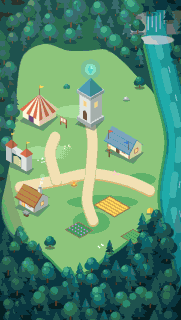
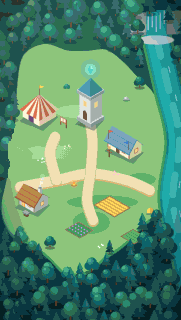
영지 UI 정리 · 자글거림 수정
- 재화 2종 오른쪽 위(이름 패널과 같은 높이), 건물 이름표 → 굵은 테두리 메뉴 버튼(흔들림 제거)
- 성문 삭제 (가로 라벨, 세로·가로 그림에서 지움)
- 출전 덱을 출전 버튼과 한 판에: 큰 카드 한 줄, 좌우로 밀어서 보기, 누르면 병영
- 렌더 해상도 RES 를 화면 실제 픽셀에 맞춘 정수 배율(2~3)로, 캔버스 확대·축소는 부드럽게 (nearest 로 줄여 자글거리던 문제)
- 느린 CI 에서 흔들린 이펙트 테스트 대기 5초 → 10초

Claude-Session: https://claude.ai/code/session_01SZsqwLwV16mDzSvJa73xyD

Changed region(s): [[0.0276, 0.4062, 0.1934, 0.5625]]

diff --git a/src/scenes/LobbyScene.js b/src/scenes/LobbyScene.js
@@ -10,7 +10,7 @@ import { ROSTER_BY_ID, GRADES, DECK_RULES } from '../data/roster.js';
 import { charImage } from '../objects/Mercenary.js';
 
 // 로비 = 용병단 영지 (2026-11-17, 시안 A '영지 지도형'). 건물이 곧 메뉴:
-//   성탑(스킬 노드) · 병영(덱 편성) · 술집(마정석 고용, 룰 v2) · 유물 공방(마정석 유물 생산·장착, 룰 v2) · 성문/출전(전투 시작)
+//   성탑(스킬 노드) · 병영(덱 편성) · 술집(마정석 고용, 룰 v2) · 유물 공방(마정석 유물 생산·장착, 룰 v2). 출전은 아래 덱 줄의 버튼 (성문 삭제 2026-11-21)
 // 배경은 동화풍 일러스트를 캐릭터와 같은 3px 도트로 정리한 그림 (public/assets/lobby/lobby_<wide|tall>.png, 아트 1px = 화면 3px)
 
 /** 건물 이름표 위치 (게임 좌표) · 누를 수 있는 건물 영역 */
@@ -19,23 +19,20 @@ const SPOTS = WIDE
       tower: { tag: [622, 92], hit: [570, 110, 110, 190] },
       tent: { tag: [350, 150], hit: [270, 170, 160, 130] },
       barracks: { tag: [876, 196], hit: [780, 210, 180, 130] },
-      forge: { tag: [342, 424], hit: [260, 430, 160, 120] },
-      gate: { tag: [176, 268], hit: [90, 280, 150, 150] }
+      forge: { tag: [342, 424], hit: [260, 430, 160, 120] }
     }
   : {
       tower: { tag: [392, 236], hit: [222, 230, 110, 160] },
       tent: { tag: [118, 232], hit: [56, 250, 130, 110] },
       barracks: { tag: [392, 350], hit: [300, 370, 150, 110] },
-      forge: { tag: [108, 536], hit: [40, 540, 120, 110] },
-      gate: null
+      forge: { tag: [108, 536], hit: [40, 540, 120, 110] }
     };
 
 const LABELS = {
   tower: ['성탑', '스킬 노드', 'tower'],
   tent: ['술집', '용병 고용', 'userplus'],
   barracks: ['병영', '덱 편성', 'sword'],
-  forge: ['유물 공방', '유물 생산·장착', 'gem'],
-  gate: ['성문', '출전', 'sword']
+  forge: ['유물 공방', '유물 생산·장착', 'gem']
 };
 
 export class LobbyScene extends Phaser.Scene {
@@ -65,11 +62,12 @@ export class LobbyScene extends Phaser.Scene {
     this.scene.start(scene, data);
   }
 
-  /** 위: 용병단 이름·최고 기록 + 재화 3종 */
+  /** 위: 왼쪽 용병단 이름·최고 기록 / 오른쪽 재화 2종 (2026-11-21: 같은 높이로 오른쪽 위에) */
   createTop() {
     const best = meta.data.best?.normal || 0;
+    const H = 52;
     const nameW = WIDE ? 230 : 200;
-    panel(this, 16, 14, nameW, 52, 'strip');
+    panel(this, 16, 14, nameW, H, 'strip');
     const crest = this.add.graphics();
     crest.fillStyle(0xf2c14e, 1).fillCircle(44, 40, 18).lineStyle(2, 0xa8801c, 1).strokeCircle(44, 40, 18);
     drawIcon(crest, 'crown', 44, 40, 14, 0x6b4505);
@@ -81,63 +79,66 @@ export class LobbyScene extends Phaser.Scene {
       ['명성', meta.fame, 0xf2c14e, 'crown'],
       ['마정석', meta.stones, 0x2fbfb2, 'gem']
     ];
-    const w = WIDE ? 170 : 252;
+    const w = WIDE ? 170 : 148;
+    const gap = 8;
     cur.forEach(([label, n, col, icon], i) => {
-      const x = WIDE ? GAME_W - 16 - (cur.length - i) * (w + 8) + 8 : 16 + i * (w + 8);
-      const y = WIDE ? 14 : 74;
-      panel(this, x, y, w, 40, 'strip');
+      const x = GAME_W - 16 - (cur.length - i) * w - (cur.length - 1 - i) * gap;
+      const y = 14;
+      panel(this, x, y, w, H, 'strip');
       const g = this.add.graphics();
-      g.fillStyle(col, 1).fillCircle(x + 22, y + 20, 13);
-      drawIcon(g, icon, x + 22, y + 20, 10, 0xffffff);
-      uiText(this, x + 42, y + 20, n.toLocaleString(), 16.5, CSS.ink, 'bold').setOrigin(0, 0.5);
-      uiText(this, x + w - 14, y + 20, label, 11, CSS.sub, '600').setOrigin(1, 0.5);
+      g.fillStyle(col, 1).fillCircle(x + 26, y + H / 2, 16);
+      drawIcon(g, icon, x + 26, y + H / 2, 12, 0xffffff);
+      uiText(this, x + 50, y + 8, n.toLocaleString(), 16.5, CSS.ink, 'bold');
+      uiText(this, x + 50, y + 31, label, 11, CSS.sub, '600');
     });
   }
 
-  /** 건물 이름표 + 누르는 영역 */
+  /** 건물 메뉴 버튼 (2026-11-21: 이름표 → 진한 테두리 메뉴 버튼, 흔들림 없음 — 소수점 위치로 움직이면 글자가 자글거린다) + 건물 영역 */
   createSpot(id) {
     const S = SPOTS[id];
     const [name, sub, icon] = LABELS[id];
     const [tx, ty] = S.tag;
     const action = () => this.openSpot(id);
-    // 건물 영역 (보이지 않음)
     const [hx, hy, hw, hh] = S.hit;
     this.add.zone(hx, hy, hw, hh).setOrigin(0).setInteractive({ useHandCursor: true }).on('pointerup', action);
-    // 이름표 (알약)
-    const t1 = uiText(this, 0, 0, name, 15, CSS.ink, 'bold');
+    const t1 = uiText(this, 0, 0, name, 16.5, CSS.ink, 'bold');
     const t2 = uiText(this, 0, 0, sub, 11, CSS.sub, '600');
-    const w = Math.ceil(Math.max(t1.width, t2.width) + 62);
-    const h = 44;
-    const x = Math.round(tx - w / 2);
-    const y = Math.round(ty - h / 2);
-    const c = this.add.container(0, 0);
-    c.add(panel(this, x, y, w, h, 'strip'));
+    const w = Math.ceil(Math.max(t1.width, t2.width) + 74);
+    const h = 52;
+    const c = this.add.container(Math.round(tx), Math.round(ty)); // 가운데 기준 (눌림 효과가 가운데로 줄어들게)
+    c.add(panel(this, -w / 2, -h / 2, w, h, 'menu'));
     const g = this.add.graphics();
-    g.fillStyle(0x1f6f66, 1).fillCircle(x + 22, y + h / 2, 15);
-    drawIcon(g, icon, x + 22, y + h / 2, 12, 0xfff3c4);
+    const ix = -w / 2 + 26;
+    g.fillStyle(0x6b4e2a, 1).fillCircle(ix, 0, 18);
+    g.fillStyle(0x1f6f66, 1).fillCircle(ix, 0, 15);
+    drawIcon(g, icon, ix, 0, 12, 0xfff3c4);
     c.add(g);
-    t1.setPosition(x + 44, y + 5);
-    t2.setPosition(x + 44, y + 24);
+    t1.setPosition(ix + 24, -h / 2 + 7);
+    t2.setPosition(ix + 24, -h / 2 + 30);
     c.add([t1, t2]);
     // 살 수 있는 노드 수 (성탑)
     if (id === 'tower') {
       const n = UPGRADES.filter((u) => meta.status(u.id) === 'ok').length;
       if (n) {
         const b = this.add.graphics();
-        b.fillStyle(0xd9603f, 1).fillCircle(x + w - 4, y + 4, 11).lineStyle(2, 0xfff3dc, 1).strokeCircle(x + w - 4, y + 4, 11);
-        c.add([b, uiText(this, x + w - 4, y + 4, String(n), 11, '#ffffff', 'bold').setOrigin(0.5)]);
+        b.fillStyle(0xd9603f, 1).fillCircle(w / 2 - 4, -h / 2 + 4, 11).lineStyle(2, 0xfff3dc, 1).strokeCircle(w / 2 - 4, -h / 2 + 4, 11);
+        c.add([b, uiText(this, w / 2 - 4, -h / 2 + 4, String(n), 11, '#ffffff', 'bold').setOrigin(0.5)]);
       }
     }
-    const hit = this.add.zone(x, y, w, h).setOrigin(0).setInteractive({ useHandCursor: true });
-    hit.on('pointerup', action);
+    const hit = this.add.zone(-w / 2, -h / 2, w, h).setOrigin(0).setInteractive({ useHandCursor: true });
+    hit.on('pointerdown', () => c.setScale(0.96));
+    hit.on('pointerout', () => c.setScale(1));
+    hit.on('pointerup', () => {
+      c.setScale(1);
+      action();
+    });
     c.add(hit);
-    this.tweens.add({ targets: c, y: -3, duration: 1200 + (tx % 5) * 80, yoyo: true, repeat: -1, ease: 'Sine.easeInOut' });
+    this.spots = { ...this.spots, [id]: c };
   }
 
   openSpot(id) {
     if (id === 'tower') return this.go('Upgrade', { from: 'lobby' });
     if (id === 'barracks') return this.go('Deck');
-    if (id === 'gate') return this.go('Game');
     if (id === 'tent') return this.go('Tavern');
     if (id === 'forge') return this.go('Workshop');
   }
@@ -151,37 +152,72 @@ export class LobbyScene extends Phaser.Scene {
     this.tweens.add({ targets: c, alpha: 0, delay: 1600, duration: 300, onComplete: () => c.destroy() });
   }
 
-  /** 아래: 출전 덱 (병영으로) + 출전 버튼 */
+  /**
+   * 아래 독 (2026-11-21): 출전 버튼과 한 판에 붙인 출전 덱 — 큰 카드 한 줄, 좌우로 밀어서 본다. 카드를 누르면 병영(덱 편성)
+   * 세로: 화면 아래 시트(덱 줄 위 + 출전 버튼 아래) / 가로: 아래 띠(덱 줄 왼쪽 + 출전 버튼 오른쪽)
+   */
   createDeckStrip() {
-    const ids = meta.deck;
-    const per = WIDE ? 22 : 11; // 한 줄에 놓는 수
-    const step = WIDE ? 33 : 46;
-    const rows = Math.ceil(ids.length / per);
-    const pw = WIDE ? per * step + 24 : GAME_W - 32;
-    const ph = 34 + rows * (step + 2) + 8;
-    const px = 16;
-    const py = WIDE ? GAME_H - 16 - ph : GAME_H - 108 - ph;
-    panel(this, px, py, pw, ph, 'card');
-    uiText(this, px + 16, py + 10, `출전 덱 ${ids.length}명`, 13, CSS.ink, 'bold');
-    uiText(this, px + pw - 16, py + 10, `${ids.length} / ${DECK_RULES.max}명 · 병영에서 편성`, 11, CSS.sub, '600').setOrigin(1, 0);
+    const ids = [...meta.deck].sort((a, b) => ROSTER_BY_ID[b].grade - ROSTER_BY_ID[a].grade);
+    const goW = WIDE ? 280 : GAME_W - 48;
+    const goH = WIDE ? 92 : 72;
+    const D = WIDE ? { x: 16, y: GAME_H - 16 - 132, w: GAME_W - 32, h: 132 } : { x: 8, y: GAME_H - 8 - 218, w: GAME_W - 16, h: 218 };
+    panel(this, D.x, D.y, D.w, D.h, 'card');
+    // 카드 줄 (가려지는 영역)
+    const row = WIDE ? { x: D.x + 16, y: D.y + 38, w: D.w - goW - 48, h: 80 } : { x: D.x + 16, y: D.y + 38, w: D.w - 32, h: 80 };
+    uiText(this, row.x, D.y + 12, `출전 덱 ${ids.length} / ${DECK_RULES.max}명`, 13, CSS.ink, 'bold');
+    uiText(this, row.x + row.w, D.y + 12, '밀어서 보기 · 누르면 병영', 11, CSS.sub, '600').setOrigin(1, 0);
+    const cw = 64;
+    const ch = 76;
+    const step = cw + 8;
+    const strip = this.add.container(row.x, row.y);
     ids.forEach((id, i) => {
-      const ch = ROSTER_BY_ID[id];
-      const x = px + 12 + (i % per) * step + step / 2;
-      const y = py + 34 + Math.floor(i / per) * (step + 2) + step / 2;
-      const r = this.add.graphics();
-      r.fillStyle(0xf3ead2, 1).fillRoundedRect(x - step / 2 + 2, y - step / 2 + 2, step - 4, step - 4, 7);
-      r.lineStyle(2, Phaser.Display.Color.HexStringToColor(GRADES[ch.grade].color).color, 1).strokeRoundedRect(x - step / 2 + 2, y - step / 2 + 2, step - 4, step - 4, 7);
-      charImage(this, x, y, ch, WIDE ? 1.5 : PX / 2 + 0.5);
+      const c = ROSTER_BY_ID[id];
+      const x = i * step;
+      const g = this.add.graphics();
+      g.fillStyle(0xf3ead2, 1).fillRoundedRect(x, 2, cw, ch, 10);
+      g.lineStyle(3, Phaser.Display.Color.HexStringToColor(GRADES[c.grade].color).color, 1).strokeRoundedRect(x, 2, cw, ch, 10);
+      const img = charImage(this, x + cw / 2, 2 + ch / 2 - 6, c, 3);
+      const nm = uiText(this, x + cw / 2, 2 + ch - 6, c.name, 11, CSS.ink, 'bold').setOrigin(0.5, 1);
+      strip.add([g, img, nm]);
     });
-    const zone = this.add.zone(px, py, pw, ph).setOrigin(0).setInteractive({ useHandCursor: true });
-    zone.on('pointerup', () => this.go('Deck'));
+    const shape = this.make.graphics({}, false).fillRect(row.x, row.y, row.w, row.h);
+    strip.setMask(shape.createGeometryMask());
+    const maxScroll = Math.max(0, ids.length * step - 8 - row.w);
+    this.deckScroll = 0;
+    const setScroll = (v) => {
+      this.deckScroll = Phaser.Math.Clamp(v, 0, maxScroll);
+      strip.x = Math.round(row.x - this.deckScroll); // 정수 위치 (자글거림 방지)
+    };
+    this.setDeckScroll = setScroll;
+    this.deckStrip = strip;
+    // 밀기 · 휠 · 누르기
+    const zone = this.add.zone(row.x, row.y, row.w, row.h).setOrigin(0).setInteractive({ useHandCursor: true });
+    let drag = null;
+    zone.on('pointerdown', (p) => (drag = { x: p.worldX, s: this.deckScroll, moved: false }));
+    this.input.on('pointermove', (p) => {
+      if (!drag || !p.isDown) return;
+      const dx = p.worldX - drag.x;
+      if (Math.abs(dx) > 6) drag.moved = true;
+      if (drag.moved) setScroll(drag.s - dx);
+    });
+    this.input.on('pointerup', () => {
+      const d = drag;
+      drag = null;
+      if (d && !d.moved) this.go('Deck');
+    });
+    this.input.on('wheel', (p, _o, dx, dy) => {
+      if (p.worldX >= row.x && p.worldX <= row.x + row.w && p.worldY >= row.y && p.worldY <= row.y + row.h) setScroll(this.deckScroll + (dx || dy) * 0.6);
+    });
+    // 남은 카드가 있으면 오른쪽 끝에 흐림 표시
+    if (maxScroll > 0) {
+      const f = this.add.graphics();
+      for (let k = 0; k < 6; k++) f.fillStyle(0xfbf7ec, 0.16 * (k + 1)).fillRect(row.x + row.w - 24 + k * 4, row.y, 4, row.h);
+    }
 
-    const goW = WIDE ? 300 : GAME_W - 32;
-    const goH = WIDE ? 84 : 76;
-    const gx = WIDE ? GAME_W - 16 - goW / 2 : GAME_W / 2;
-    const gy = GAME_H - 16 - goH / 2;
+    const gx = WIDE ? D.x + D.w - 16 - goW / 2 : GAME_W / 2;
+    const gy = WIDE ? D.y + D.h / 2 : D.y + D.h - 12 - goH / 2;
     this.goBtn = new Button(this, gx, gy, goW, goH, '출 전', () => this.go('Game'), { variant: 'gold', fontSize: 33 });
-    uiText(this, gx, gy + 26, 'WAVE 1부터 · Space', 11, '#3a2a10', '600').setOrigin(0.5).setDepth(this.goBtn.depth + 1);
+    uiText(this, gx, gy + 24, 'WAVE 1부터 · Space', 11, '#3a2a10', '600').setOrigin(0.5).setDepth(this.goBtn.depth + 1);
     this.goBtn.label.setY(-8);
   }
 }

diff --git a/src/config.js b/src/config.js
@@ -50,11 +50,21 @@ export const HUD_RECTS = WIDE
     ];
 // 고화질 렌더링: 캔버스 실제 해상도 = 게임 좌표 × RES (카메라 zoom RES). 글자도 RES 배 해상도로 그려 선명하게.
 // 게임 좌표(544x960)·레이아웃은 그대로다
-export const RES = 2; // 가로 배치도 2배 (1280x720 → 2560x1440). 1.5배면 픽셀 글꼴 크기 격자가 달라져 작은 글자가 커진다
+// 2026-11-21: 고정 2배 캔버스를 브라우저가 nearest 로 줄이고 늘려서(정수배가 아닐 때) 글자·테두리가 자글거렸다 →
+// 화면 실제 픽셀(창 크기 × devicePixelRatio)에 맞춰 정수 배율 2~3 을 고르고, 브라우저 확대·축소는 부드럽게(index.html image-rendering: auto).
+// 정수 배율이라 캔버스 안의 도트는 그대로 반듯하다. 주소에 ?res=1~4 로 강제할 수 있다
+function pickRes() {
+  if (typeof window === 'undefined') return 2;
+  const q = Number(new URLSearchParams(window.location?.search || '').get('res'));
+  if (q) return Math.max(1, Math.min(4, Math.round(q)));
+  const fit = Math.min(window.innerWidth / GAME_W, window.innerHeight / GAME_H);
+  return Math.max(2, Math.min(3, Math.ceil(fit * (window.devicePixelRatio || 1) - 0.05)));
+}
+export const RES = pickRes();
 /** Galmuri11 은 11px 격자로 디자인된 픽셀 글꼴 — 화면 크기가 11의 배수(px)일 때 획이 정확히 맞아 깔끔하다.
- *  요청 크기를 가장 가까운 '11 × 정수 / RES' 로 맞춘다 (RES 2: 11, 16.5, 22, 27.5 …) */
+ *  요청 크기를 가장 가까운 '11 × 정수 / 2' 로 맞춘다 (11, 16.5, 22, 27.5 …) */
 export function crispFontSize(size) {
-  const step = 11 / RES;
+  const step = 11 / 2; // 글자 크기 격자는 RES 2 기준으로 고정 (RES 가 화면마다 달라도 배치가 같게)
   return Math.max(11, Math.round(size / step) * step);
 }
 

diff --git a/src/ui/theme.js b/src/ui/theme.js
@@ -147,7 +147,9 @@ const COZY_STYLES = {
   gold: { fill: '#e2b54a', line: '#a8801c', lip: '#a8801c', r: 18 },
   outline: { fill: '#fbf7ec', line: '#e3d6b6', lip: 'rgba(120,95,50,0.16)', r: 18 },
   soft: { fill: '#f3ead2', line: '#e3d6b6', lip: null, r: 14 },
-  ghost: { fill: '#f3ead2', line: '#e3d6b6', lip: null, r: 14 }
+  ghost: { fill: '#f3ead2', line: '#e3d6b6', lip: null, r: 14 },
+  // 영지 메뉴 버튼 (2026-11-21): 진한 갈색 굵은 테두리 + 아래 입술로 '누르는 버튼' 느낌을 강조
+  menu: { fill: '#fbf7ec', line: '#6b4e2a', lip: '#6b4e2a', r: 16, lw: 3, lipH: 3 }
 };
 
 function cozyKey(scene, style, w, h) {
@@ -169,16 +171,17 @@ function cozyKey(scene, style, w, h) {
   ctx.shadowOffsetY = 2;
   if (S.lip) {
     ctx.fillStyle = S.lip;
-    shape(pad, pad + 3, w, h);
+    shape(pad, pad + (S.lipH || 3), w, h);
     ctx.fill();
   }
   ctx.shadowColor = 'transparent';
   ctx.fillStyle = S.fill;
   shape(pad, pad, w, h);
   ctx.fill();
-  ctx.lineWidth = 2;
+  const lw = S.lw || 2;
+  ctx.lineWidth = lw;
   ctx.strokeStyle = S.line;
-  shape(pad + 1, pad + 1, w - 2, h - 2);
+  shape(pad + lw / 2, pad + lw / 2, w - lw, h - lw);
   ctx.stroke();
   tex.refresh();
   return key;

diff --git a/index.html b/index.html
@@ -8,6 +8,8 @@
       /* 게임 화면 밖 여백은 검은색. 가운데 정렬은 Phaser(Scale.CENTER_BOTH)가 맡는다 */
       html, body { margin: 0; padding: 0; width: 100%; height: 100%; overflow: hidden; background: #000; touch-action: none; overscroll-behavior: none; }
       #game { width: 100%; height: 100%; background: #000; }
+      /* 캔버스는 화면 해상도에 맞춘 정수 배율(RES)로 그리고, 남는 확대·축소는 부드럽게 — nearest 로 줄이면 글자·테두리가 자글거린다 */
+      #game canvas { image-rendering: auto !important; }
     </style>
   </head>
   <body>

diff --git a/CLAUDE.md b/CLAUDE.md
@@ -56,11 +56,11 @@
 ## 확정 규칙 — 명성 강화·로비
 - 명성 = 영구 강화 재화(골드와 분리). 방사형 노드 트리(뿌리에서 공격·경제·전술·방어 4갈래, `docs/UPGRADES.md`). 룰 v2: 속성 노드 → 마나·전열·후열·마나 정수, 고용 노드 → 리롤 할인·영지 개발·정찰대(무료 리롤)·영지 기틀(시작 영지 레벨), 레어/유니크 고용 확률 → 상점 확률. 명성은 웨이브를 버틸 때마다 바로 저장
 - **강화 버튼 (2026-11-18, 필드 성탑 삭제)**: 전투 화면 하단 작은 버튼 줄(배속·메뉴·**강화**). 누르면 전투가 멈추고 노드 트리 — 판 도중에도 찍을 수 있고 닫으면 즉시 반영. 살 수 있는 노드가 있으면 버튼 위에 "!" — 1.3초마다 스케일 팝(1→1.35→0.92→1) 반복, 배속·정지와 상관없이 실제 시간 (2026-11-19)
-- **영지(로비)**: 건물이 메뉴 — 성탑(노드) · 병영(덱 편성) · **술집**(마정석 고용) · **유물 공방**(마정석 유물 생산·장착) · 성문/출전. 위에 재화 2종(명성·마정석), 아래 출전 덱 줄
+- **영지(로비)**: 건물마다 메뉴 버튼(진한 갈색 굵은 테두리 + 아래 입술, theme `menu` 스타일, 흔들림 없음) — 성탑(노드) · 병영(덱 편성) · **술집**(마정석 고용) · **유물 공방**(마정석 유물 생산·장착). **성문 삭제**(2026-11-21, 그림에서도 지움). 위: 왼쪽 용병단 이름 + **오른쪽 위 재화 2종**(명성·마정석, 같은 높이 52). 아래: **출전 덱과 출전 버튼을 한 판(독)에** — 덱은 큰 카드 한 줄, 좌우로 밀어서 보기, 누르면 병영
 - 타이틀: 사용자 일러스트(`public/assets/title/title.png`, perfectPixel 정리 312x553, 영문 로고) + TAP TO START(1.1초 사인 페이드·맥동), 아래 '명성 강화' 버튼·최고 기록. 한글 제목 없음
 
 ## 확정 규칙 — 화면·UI
-- 게임 화면은 창 정중앙, 바깥 여백 검정. 캔버스 2배 해상도(`RES`)
+- 게임 화면은 창 정중앙, 바깥 여백 검정. **렌더 해상도 `RES` 는 화면 실제 픽셀에 맞춘 정수 배율 2~3**(2026-11-21, 폰 3배) + 캔버스 확대·축소는 부드럽게(`image-rendering: auto`) — 고정 2배를 nearest 로 늘이고 줄여 글자·테두리가 자글거리던 문제 수정. `?res=` 로 강제
 - **B-2 포근한 카드형 UI** (가로·세로 모두, `COZY = true`): 크림 `#fbf7ec` 둥근 카드 + 세이지 `#7a9a5c` 버튼, 글꼴 **썬플라워**(없는 기호는 고운돋움). 가로: 위 가운데 알약 바 + 아래 가운데 독. 세로: 위 크림 카드 + 유물 띠 + 아래 둥근 시트
 - 알림: 배너·토스트는 필드·몬스터 길을 가리지 않는 띠에만, 긴 글은 … 로 줄임
 - 튜토리얼: 기능을 처음 만날 때 1회, 전투 멈춤 + 해당 위치 강조 + 말풍선(확인/끄기). 자동화 브라우저에서는 꺼짐

diff --git a/AGENTS.md b/AGENTS.md
@@ -6,7 +6,7 @@
 
 ## 함정 (코드만 보면 놓치기 쉬운 것)
 - Phaser **3** API만 쓴다 (Phaser 4 문법 금지). 물리 엔진 없이 이동·충돌을 직접 계산한다
-- 게임 좌표 544x960(가로 배치 `config.WIDE` 면 1280x720, `?layout=`). **실제 캔버스는 ×`RES`(2) — 각 장면 `create()` 첫 줄 `hiRes(this)` 가 카메라를 zoom 2 로 맞춘다.** 포인터는 `p.x` 가 아니라 `p.worldX/worldY`. 모든 `add.text` 는 `main.js` 가 RES·`crispFontSize()` 로 맞춘다
+- 게임 좌표 544x960(가로 배치 `config.WIDE` 면 1280x720, `?layout=`). **실제 캔버스는 ×`RES`(화면에 맞춘 정수 2~3, 테스트 뷰포트는 2) — 각 장면 `create()` 첫 줄 `hiRes(this)` 가 카메라를 zoom RES 로 맞춘다. RES 를 2 로 가정한 숫자를 쓰지 말 것.** 포인터는 `p.x` 가 아니라 `p.worldX/worldY`. 모든 `add.text` 는 `main.js` 가 RES·`crispFontSize()` 로 맞춘다
 - UI 글꼴 썬플라워·고운돋움은 **게임에 쓰는 글자만 서브셋** — 새 한글 문구를 넣으면 `src` 글자를 모아 `pyftsubset` 으로 `public/assets/fonts/` 를 다시 만들 것 (안 하면 글자가 빠져 보인다)
 - UI 는 `COZY`(B-2 카드형, 기본 true) — `src/ui/theme.js` 의 `panel()`·`uiText()`·`drawIcon()` 등과 `Button` variant 를 쓴다. 가로 HUD 는 `createTopWide`/`createBottomWide`/`refreshInfoWide` 가 따로 있다
 - 그림은 기본이 코드 생성(`src/art/`), `public/assets/custom/manifest.json` 에 적힌 PNG 가 같은 키를 대체한다(`src/systems/customArt.js`, 키 목록 `docs/CUSTOM_ART.md`). 유닛 그림을 바꿀 때는 `setArt(obj, key, 기본배율)`, 텍스처를 바꾸면 `playBase(sprite, 'idle'|'walk')`. 새 텍스처 키를 만들면 `tools/gen-art-doc.mjs` 에도 반영

diff --git a/docs/HISTORY.md b/docs/HISTORY.md
@@ -209,3 +209,4 @@
 - 2026-11-20 룰 v2 2단계(아이템 조합): 재료 6 + 왕실 인장 → 조합 21·문장 12, 끌어다 장착·자동 조합·해제 도구·판 안 대장장이·드랍
 - 2026-11-20 룰 v2 3단계(영지): 술집(3명·3시간 갱신·마정석 고용·중복 강화·리롤 ×1.5)·유물 공방(유물 30종, 새 20종 효과·아이콘 가안, 무작위 생산·레벨 업·장착 4칸)·보스 마정석, 판 안 유물 드랍·3택1·끄고 켜기 폐지. 밸런스 봇 상점용으로 다시 작성(강화 0 W51·W52·W61), 문서·글꼴 서브셋 갱신 — 사용자 확인 대기
 - 2026-11-20 룰 v2 main 에 합침 (사용자 결정 "합쳐") — 저장 `rtd_meta_v3` 로 초기화
+- 2026-11-21 영지 UI: 재화 2종 오른쪽 위, 건물 이름표 → 굵은 테두리 메뉴 버튼(흔들림 제거), 성문 삭제(라벨·그림), 출전 덱을 출전 버튼과 한 판에 큰 카드 한 줄 + 밀어서 보기. 자글거림: 렌더 해상도를 화면에 맞춘 정수 배율(2~3) + 캔버스 부드럽게 맞춤
